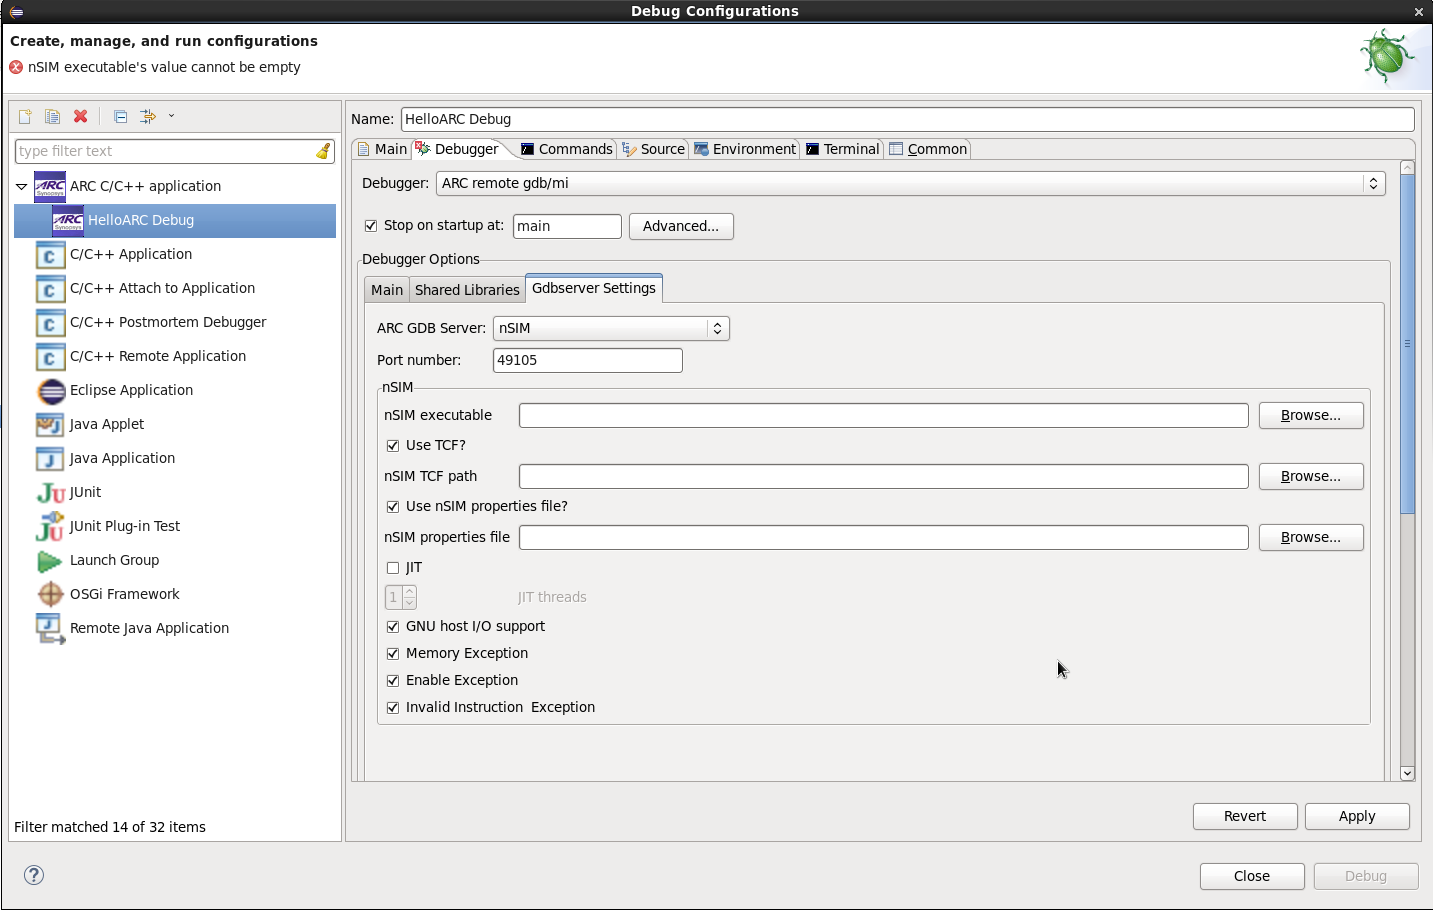
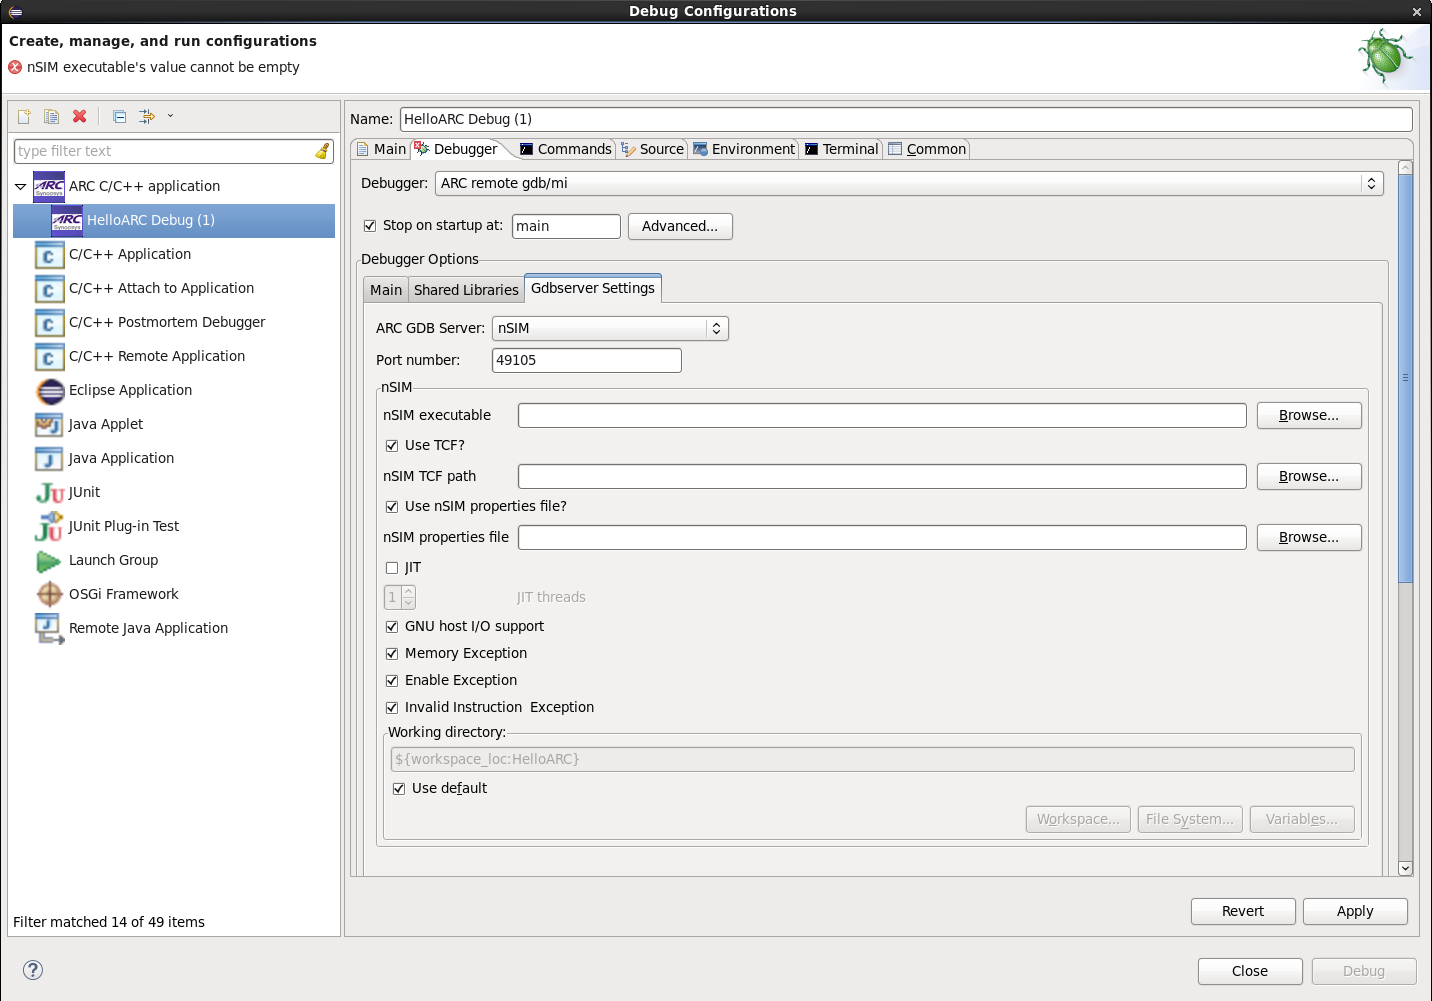
Update Debugging with nSIM page
Updated Debug Configurations page screenshot with nSIM selected and
added 'Working Directory' to the list of available options.

Changed region(s): [[0.0, 0.0, 1.0, 1.0], [0.0, 0.8923, 0.1536, 1.0]]

diff --git a/Debugging-with-nSIM.md b/Debugging-with-nSIM.md
@@ -39,6 +39,8 @@ pages:
     options, if checked, tell nSIM to simulate all exceptions, memory exceptions and
     invalid instruction expections, respectively. If one of these options is unchecked
     and corresponding exception happens, nSIM will exit with an error instead.
+   - **Working Directory** is a directory from which nSIM GDB server will be
+     started. By default it is project location.
 
 ### Debugging an application
 
